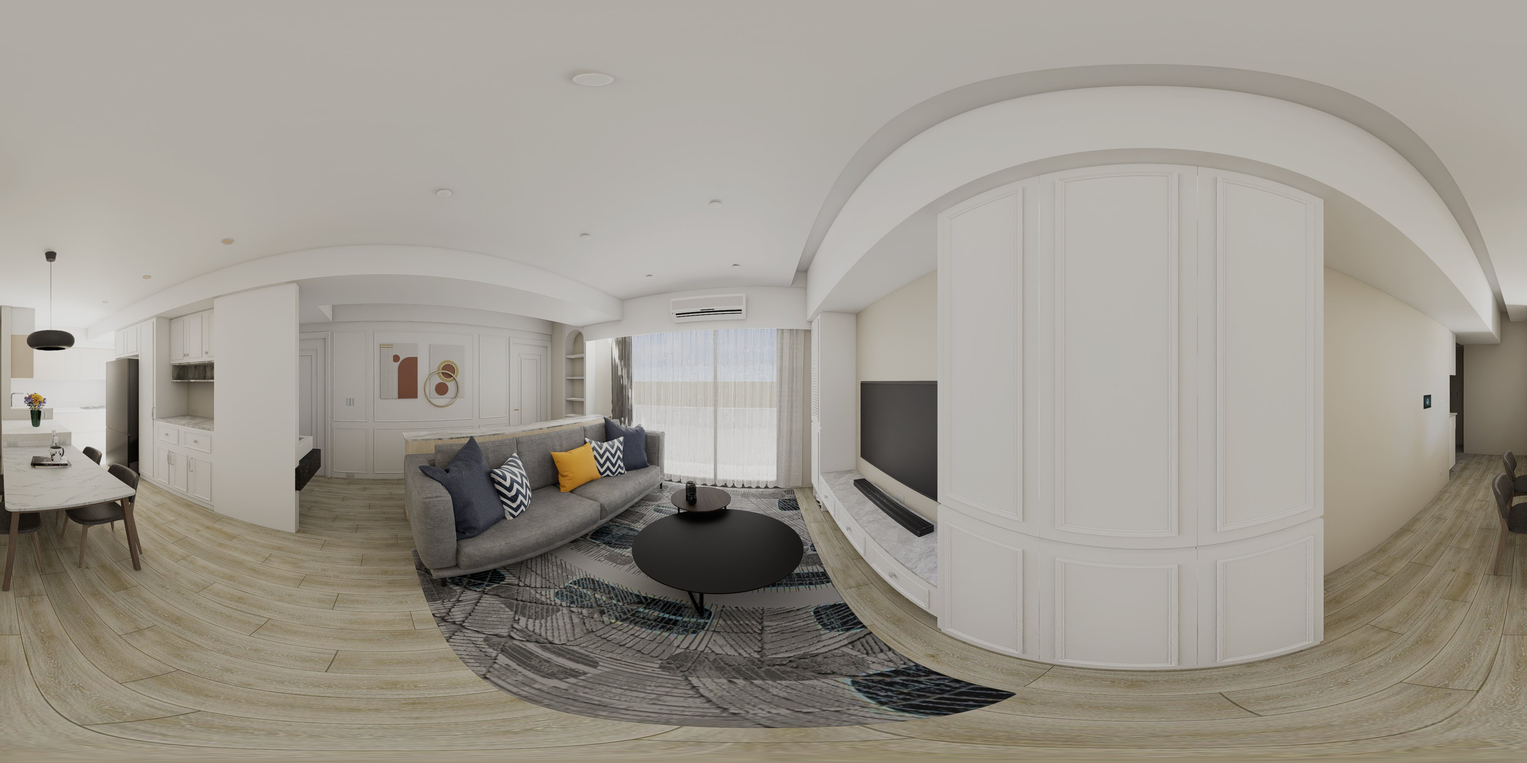
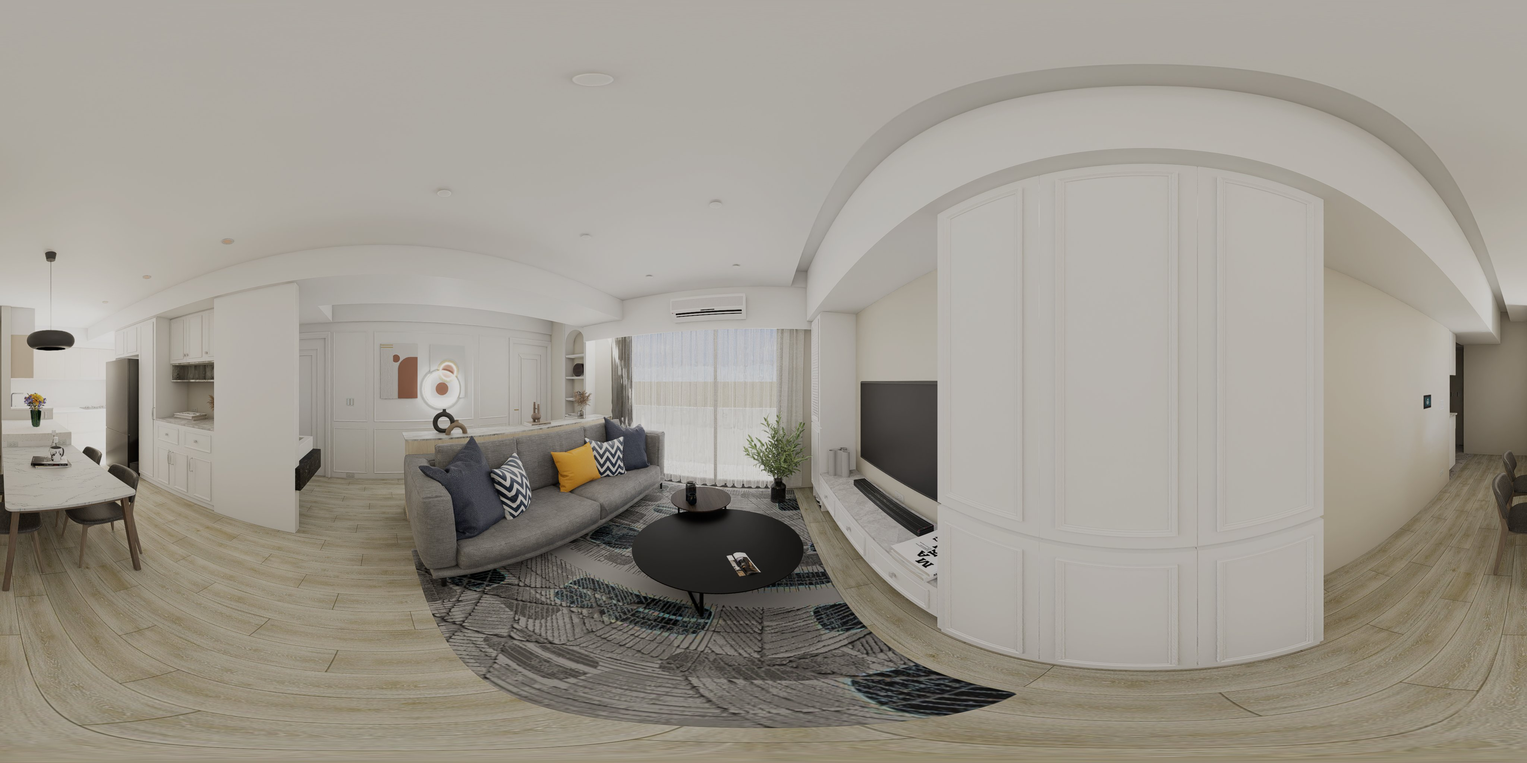
女王萬歲：全屋樣品屋軟裝（6 站白天＋燈光）＋飾品開關
現代法式軟裝：主臥一對鏡像肌理畫＋床尾圓墩、次臥黑白幾何畫＋床邊几、
走道矮櫃與拱形壁龕、客廳電視櫃與茶几、咖啡吧、玄關凹槽。
有飾品／無飾品白天都在新 D5 專案出圖並用同一組增益對齊舊版亮度。

diff --git a/queen-wansui/index.html b/queen-wansui/index.html
@@ -104,7 +104,7 @@ body { background: var(--bg); color: var(--ink); font-family: var(--f-ui); font-
   <div class="eyebrow">台中南區</div>
   <h1 class="case">女王萬歲</h1>
   <div class="now">目前位置：<b id="now">—</b></div>
-  <style>.mode.multi button { padding: 0 14px; white-space: nowrap; }</style><div class="mode multi" role="group" aria-label="裝修前後與光線"><button type="button" id="mBefore" aria-pressed="false">裝修前</button><button type="button" id="mDay" aria-pressed="true">白天</button><button type="button" id="mNight" aria-pressed="false">燈光</button></div>
+  <style>.mode.multi button { padding: 0 14px; white-space: nowrap; }</style><div class="mode multi" role="group" aria-label="裝修前後與光線"><button type="button" id="mBefore" aria-pressed="false">裝修前</button><button type="button" id="mDay" aria-pressed="true">白天</button><button type="button" id="mNight" aria-pressed="false">燈光</button></div><style>.mode[hidden] { display: none; } #decorRow button { white-space: nowrap; padding: 0 14px; }</style><div class="mode" id="decorRow" role="group" aria-label="飾品"><button type="button" id="dOn" aria-pressed="true">飾品 開</button><button type="button" id="dOff" aria-pressed="false">飾品 關</button></div>
 </header>
 
 <nav class="rooms" id="rooms" aria-label="房間"></nav>
@@ -121,7 +121,7 @@ body { background: var(--bg); color: var(--ink); font-family: var(--f-ui); font-
 <script src="https://cdnjs.cloudflare.com/ajax/libs/pannellum/2.5.6/pannellum.js"></script>
 <script>
 const ROOMS = [{"id": "VR1", "name": "玄關", "x": 86.82, "y": 84.68}, {"id": "VR2", "name": "餐廚", "x": 60.17, "y": 69.36}, {"id": "VR3", "name": "客廳", "x": 69.31, "y": 45.96}, {"id": "VR6", "name": "走道", "x": 45.7, "y": 42.98}, {"id": "VR4", "name": "主臥", "x": 35.03, "y": 37.02}, {"id": "VR5", "name": "次臥", "x": 31.23, "y": 68.51}];
-const SCENES = {"VR1": {"title": "玄關", "panorama": "pano/VR1.jpg?v=d5b", "yaw": -20, "pitch": -5, "hfov": 105, "northOffset": 0, "hotSpots": [{"pitch": -23.7, "yaw": -64.0, "type": "scene", "sceneId": "VR2", "targetYaw": "sameAzimuth", "cssClass": "gis-hot", "createTooltipFunc": "HOT", "createTooltipArgs": "餐廚"}]}, "VR2": {"title": "餐廚", "panorama": "pano/VR2.jpg?v=d5b", "yaw": 10, "pitch": -5, "hfov": 105, "northOffset": 0, "hotSpots": [{"pitch": 0.0, "yaw": 119.8, "type": "scene", "sceneId": "VR1", "targetYaw": "sameAzimuth", "cssClass": "gis-hot", "createTooltipFunc": "HOT", "createTooltipArgs": "玄關"}, {"pitch": -14.4, "yaw": 8.4, "type": "scene", "sceneId": "VR3", "targetYaw": "sameAzimuth", "cssClass": "gis-hot", "createTooltipFunc": "HOT", "createTooltipArgs": "客廳"}]}, "VR3": {"title": "客廳", "panorama": "pano/VR3.jpg?v=d5b", "yaw": 20, "pitch": -5, "hfov": 105, "northOffset": 0, "hotSpots": [{"pitch": -15.4, "yaw": -151.9, "type": "scene", "sceneId": "VR2", "targetYaw": "sameAzimuth", "cssClass": "gis-hot", "createTooltipFunc": "HOT", "createTooltipArgs": "餐廚"}, {"pitch": -12.1, "yaw": -93.1, "type": "scene", "sceneId": "VR6", "targetYaw": "sameAzimuth", "cssClass": "gis-hot", "createTooltipFunc": "HOT", "createTooltipArgs": "走道"}]}, "VR6": {"title": "走道", "panorama": "pano/VR6.jpg?v=m1b", "yaw": -15, "pitch": -5, "hfov": 105, "northOffset": 0, "hotSpots": [{"pitch": -16.7, "yaw": 99.9, "type": "scene", "sceneId": "VR3", "targetYaw": "sameAzimuth", "cssClass": "gis-hot", "createTooltipFunc": "HOT", "createTooltipArgs": "客廳"}, {"pitch": -12.7, "yaw": -13.0, "type": "scene", "sceneId": "VR4", "targetYaw": "sameAzimuth", "cssClass": "gis-hot", "createTooltipFunc": "HOT", "createTooltipArgs": "主臥"}, {"pitch": -17.1, "yaw": -162.1, "type": "scene", "sceneId": "VR5", "targetYaw": "sameAzimuth", "cssClass": "gis-hot", "createTooltipFunc": "HOT", "createTooltipArgs": "次臥"}]}, "VR4": {"title": "主臥", "panorama": "pano/VR4.jpg?v=d5b", "yaw": -110, "pitch": -5, "hfov": 105, "northOffset": 0, "hotSpots": [{"pitch": -22.4, "yaw": 15.9, "type": "scene", "sceneId": "VR6", "targetYaw": "sameAzimuth", "cssClass": "gis-hot", "createTooltipFunc": "HOT", "createTooltipArgs": "走道"}]}, "VR5": {"title": "次臥", "panorama": "pano/VR5.jpg?v=d5b", "yaw": -100, "pitch": -5, "hfov": 105, "northOffset": 0, "hotSpots": [{"pitch": -21.0, "yaw": 26.6, "type": "scene", "sceneId": "VR6", "targetYaw": "sameAzimuth", "cssClass": "gis-hot", "createTooltipFunc": "HOT", "createTooltipArgs": "走道"}]}, "VR1@n": {"title": "玄關", "panorama": "pano_night/VR1.jpg?v=n1", "yaw": -20, "pitch": -5, "hfov": 105, "northOffset": 0, "hotSpots": [{"pitch": -23.7, "yaw": -64.0, "type": "scene", "sceneId": "VR2@n", "targetYaw": "sameAzimuth", "cssClass": "gis-hot", "createTooltipFunc": "HOT", "createTooltipArgs": "餐廚"}]}, "VR2@n": {"title": "餐廚", "panorama": "pano_night/VR2.jpg?v=n1", "yaw": 10, "pitch": -5, "hfov": 105, "northOffset": 0, "hotSpots": [{"pitch": 0.0, "yaw": 119.8, "type": "scene", "sceneId": "VR1@n", "targetYaw": "sameAzimuth", "cssClass": "gis-hot", "createTooltipFunc": "HOT", "createTooltipArgs": "玄關"}, {"pitch": -14.4, "yaw": 8.4, "type": "scene", "sceneId": "VR3@n", "targetYaw": "sameAzimuth", "cssClass": "gis-hot", "createTooltipFunc": "HOT", "createTooltipArgs": "客廳"}]}, "VR3@n": {"title": "客廳", "panorama": "pano_night/VR3.jpg?v=n1", "yaw": 20, "pitch": -5, "hfov": 105, "northOffset": 0, "hotSpots": [{"pitch": -15.4, "yaw": -151.9, "type": "scene", "sceneId": "VR2@n", "targetYaw": "sameAzimuth", "cssClass": "gis-hot", "createTooltipFunc": "HOT", "createTooltipArgs": "餐廚"}, {"pitch": -12.1, "yaw": -93.1, "type": "scene", "sceneId": "VR6@n", "targetYaw": "sameAzimuth", "cssClass": "gis-hot", "createTooltipFunc": "HOT", "createTooltipArgs": "走道"}]}, "VR6@n": {"title": "走道", "panorama": "pano_night/VR6.jpg?v=m1", "yaw": -15, "pitch": -5, "hfov": 105, "northOffset": 0, "hotSpots": [{"pitch": -16.7, "yaw": 99.9, "type": "scene", "sceneId": "VR3@n", "targetYaw": "sameAzimuth", "cssClass": "gis-hot", "createTooltipFunc": "HOT", "createTooltipArgs": "客廳"}, {"pitch": -12.7, "yaw": -13.0, "type": "scene", "sceneId": "VR4@n", "targetYaw": "sameAzimuth", "cssClass": "gis-hot", "createTooltipFunc": "HOT", "createTooltipArgs": "主臥"}, {"pitch": -17.1, "yaw": -162.1, "type": "scene", "sceneId": "VR5@n", "targetYaw": "sameAzimuth", "cssClass": "gis-hot", "createTooltipFunc": "HOT", "createTooltipArgs": "次臥"}]}, "VR4@n": {"title": "主臥", "panorama": "pano_night/VR4.jpg?v=n1", "yaw": -110, "pitch": -5, "hfov": 105, "northOffset": 0, "hotSpots": [{"pitch": -22.4, "yaw": 15.9, "type": "scene", "sceneId": "VR6@n", "targetYaw": "sameAzimuth", "cssClass": "gis-hot", "createTooltipFunc": "HOT", "createTooltipArgs": "走道"}]}, "VR5@n": {"title": "次臥", "panorama": "pano_night/VR5.jpg?v=n1", "yaw": -100, "pitch": -5, "hfov": 105, "northOffset": 0, "hotSpots": [{"pitch": -21.0, "yaw": 26.6, "type": "scene", "sceneId": "VR6@n", "targetYaw": "sameAzimuth", "cssClass": "gis-hot", "createTooltipFunc": "HOT", "createTooltipArgs": "走道"}]}, "VR1@b": {"title": "玄關", "panorama": "pano_before/VR1.jpg?v=2", "yaw": -20, "pitch": -5, "hfov": 105, "northOffset": 0, "hotSpots": [{"pitch": -23.7, "yaw": -64.0, "type": "scene", "sceneId": "VR2@b", "targetYaw": "sameAzimuth", "cssClass": "gis-hot", "createTooltipFunc": "HOT", "createTooltipArgs": "餐廚"}]}, "VR2@b": {"title": "餐廚", "panorama": "pano_before/VR2.jpg?v=2", "yaw": 10, "pitch": -5, "hfov": 105, "northOffset": 0, "hotSpots": [{"pitch": 0.0, "yaw": 119.8, "type": "scene", "sceneId": "VR1@b", "targetYaw": "sameAzimuth", "cssClass": "gis-hot", "createTooltipFunc": "HOT", "createTooltipArgs": "玄關"}, {"pitch": -14.4, "yaw": 8.4, "type": "scene", "sceneId": "VR3@b", "targetYaw": "sameAzimuth", "cssClass": "gis-hot", "createTooltipFunc": "HOT", "createTooltipArgs": "客廳"}]}, "VR3@b": {"title": "客廳", "panorama": "pano_before/VR3.jpg?v=2", "yaw": 20, "pitch": -5, "hfov": 105, "northOffset": 0, "hotSpots": [{"pitch": -15.4, "yaw": -151.9, "type": "scene", "sceneId": "VR2@b", "targetYaw": "sameAzimuth", "cssClass": "gis-hot", "createTooltipFunc": "HOT", "createTooltipArgs": "餐廚"}, {"pitch": -12.1, "yaw": -93.1, "type": "scene", "sceneId": "VR6@b", "targetYaw": "sameAzimuth", "cssClass": "gis-hot", "createTooltipFunc": "HOT", "createTooltipArgs": "走道"}]}, "VR6@b": {"title": "走道", "panorama": "pano_before/VR6.jpg?v=2", "yaw": -15, "pitch": -5, "hfov": 105, "northOffset": 0, "hotSpots": [{"pitch": -16.7, "yaw": 99.9, "type": "scene", "sceneId": "VR3@b", "targetYaw": "sameAzimuth", "cssClass": "gis-hot", "createTooltipFunc": "HOT", "createTooltipArgs": "客廳"}, {"pitch": -12.7, "yaw": -13.0, "type": "scene", "sceneId": "VR4@b", "targetYaw": "sameAzimuth", "cssClass": "gis-hot", "createTooltipFunc": "HOT", "createTooltipArgs": "主臥"}, {"pitch": -17.1, "yaw": -162.1, "type": "scene", "sceneId": "VR5@b", "targetYaw": "sameAzimuth", "cssClass": "gis-hot", "createTooltipFunc": "HOT", "createTooltipArgs": "次臥"}]}, "VR4@b": {"title": "主臥", "panorama": "pano_before/VR4.jpg?v=2", "yaw": -110, "pitch": -5, "hfov": 105, "northOffset": 0, "hotSpots": [{"pitch": -22.4, "yaw": 15.9, "type": "scene", "sceneId": "VR6@b", "targetYaw": "sameAzimuth", "cssClass": "gis-hot", "createTooltipFunc": "HOT", "createTooltipArgs": "走道"}]}, "VR5@b": {"title": "次臥", "panorama": "pano_before/VR5.jpg?v=2", "yaw": -100, "pitch": -5, "hfov": 105, "northOffset": 0, "hotSpots": [{"pitch": -21.0, "yaw": 26.6, "type": "scene", "sceneId": "VR6@b", "targetYaw": "sameAzimuth", "cssClass": "gis-hot", "createTooltipFunc": "HOT", "createTooltipArgs": "走道"}]}};
+const SCENES = {"VR1": {"title": "玄關", "panorama": "pano/VR1.jpg?v=s1", "yaw": -20, "pitch": -5, "hfov": 105, "northOffset": 0, "hotSpots": [{"pitch": -23.7, "yaw": -64.0, "type": "scene", "sceneId": "VR2", "targetYaw": "sameAzimuth", "cssClass": "gis-hot", "createTooltipFunc": "HOT", "createTooltipArgs": "餐廚"}]}, "VR2": {"title": "餐廚", "panorama": "pano/VR2.jpg?v=s1", "yaw": 10, "pitch": -5, "hfov": 105, "northOffset": 0, "hotSpots": [{"pitch": 0.0, "yaw": 119.8, "type": "scene", "sceneId": "VR1", "targetYaw": "sameAzimuth", "cssClass": "gis-hot", "createTooltipFunc": "HOT", "createTooltipArgs": "玄關"}, {"pitch": -14.4, "yaw": 8.4, "type": "scene", "sceneId": "VR3", "targetYaw": "sameAzimuth", "cssClass": "gis-hot", "createTooltipFunc": "HOT", "createTooltipArgs": "客廳"}]}, "VR3": {"title": "客廳", "panorama": "pano/VR3.jpg?v=s1", "yaw": 20, "pitch": -5, "hfov": 105, "northOffset": 0, "hotSpots": [{"pitch": -15.4, "yaw": -151.9, "type": "scene", "sceneId": "VR2", "targetYaw": "sameAzimuth", "cssClass": "gis-hot", "createTooltipFunc": "HOT", "createTooltipArgs": "餐廚"}, {"pitch": -12.1, "yaw": -93.1, "type": "scene", "sceneId": "VR6", "targetYaw": "sameAzimuth", "cssClass": "gis-hot", "createTooltipFunc": "HOT", "createTooltipArgs": "走道"}]}, "VR6": {"title": "走道", "panorama": "pano/VR6.jpg?v=s1", "yaw": -15, "pitch": -5, "hfov": 105, "northOffset": 0, "hotSpots": [{"pitch": -16.7, "yaw": 99.9, "type": "scene", "sceneId": "VR3", "targetYaw": "sameAzimuth", "cssClass": "gis-hot", "createTooltipFunc": "HOT", "createTooltipArgs": "客廳"}, {"pitch": -12.7, "yaw": -13.0, "type": "scene", "sceneId": "VR4", "targetYaw": "sameAzimuth", "cssClass": "gis-hot", "createTooltipFunc": "HOT", "createTooltipArgs": "主臥"}, {"pitch": -17.1, "yaw": -162.1, "type": "scene", "sceneId": "VR5", "targetYaw": "sameAzimuth", "cssClass": "gis-hot", "createTooltipFunc": "HOT", "createTooltipArgs": "次臥"}]}, "VR4": {"title": "主臥", "panorama": "pano/VR4.jpg?v=s1", "yaw": -110, "pitch": -5, "hfov": 105, "northOffset": 0, "hotSpots": [{"pitch": -22.4, "yaw": 15.9, "type": "scene", "sceneId": "VR6", "targetYaw": "sameAzimuth", "cssClass": "gis-hot", "createTooltipFunc": "HOT", "createTooltipArgs": "走道"}]}, "VR5": {"title": "次臥", "panorama": "pano/VR5.jpg?v=s1", "yaw": -100, "pitch": -5, "hfov": 105, "northOffset": 0, "hotSpots": [{"pitch": -21.0, "yaw": 26.6, "type": "scene", "sceneId": "VR6", "targetYaw": "sameAzimuth", "cssClass": "gis-hot", "createTooltipFunc": "HOT", "createTooltipArgs": "走道"}]}, "VR1@n": {"title": "玄關", "panorama": "pano_night/VR1.jpg?v=s1", "yaw": -20, "pitch": -5, "hfov": 105, "northOffset": 0, "hotSpots": [{"pitch": -23.7, "yaw": -64.0, "type": "scene", "sceneId": "VR2@n", "targetYaw": "sameAzimuth", "cssClass": "gis-hot", "createTooltipFunc": "HOT", "createTooltipArgs": "餐廚"}]}, "VR2@n": {"title": "餐廚", "panorama": "pano_night/VR2.jpg?v=s1", "yaw": 10, "pitch": -5, "hfov": 105, "northOffset": 0, "hotSpots": [{"pitch": 0.0, "yaw": 119.8, "type": "scene", "sceneId": "VR1@n", "targetYaw": "sameAzimuth", "cssClass": "gis-hot", "createTooltipFunc": "HOT", "createTooltipArgs": "玄關"}, {"pitch": -14.4, "yaw": 8.4, "type": "scene", "sceneId": "VR3@n", "targetYaw": "sameAzimuth", "cssClass": "gis-hot", "createTooltipFunc": "HOT", "createTooltipArgs": "客廳"}]}, "VR3@n": {"title": "客廳", "panorama": "pano_night/VR3.jpg?v=s1", "yaw": 20, "pitch": -5, "hfov": 105, "northOffset": 0, "hotSpots": [{"pitch": -15.4, "yaw": -151.9, "type": "scene", "sceneId": "VR2@n", "targetYaw": "sameAzimuth", "cssClass": "gis-hot", "createTooltipFunc": "HOT", "createTooltipArgs": "餐廚"}, {"pitch": -12.1, "yaw": -93.1, "type": "scene", "sceneId": "VR6@n", "targetYaw": "sameAzimuth", "cssClass": "gis-hot", "createTooltipFunc": "HOT", "createTooltipArgs": "走道"}]}, "VR6@n": {"title": "走道", "panorama": "pano_night/VR6.jpg?v=s1", "yaw": -15, "pitch": -5, "hfov": 105, "northOffset": 0, "hotSpots": [{"pitch": -16.7, "yaw": 99.9, "type": "scene", "sceneId": "VR3@n", "targetYaw": "sameAzimuth", "cssClass": "gis-hot", "createTooltipFunc": "HOT", "createTooltipArgs": "客廳"}, {"pitch": -12.7, "yaw": -13.0, "type": "scene", "sceneId": "VR4@n", "targetYaw": "sameAzimuth", "cssClass": "gis-hot", "createTooltipFunc": "HOT", "createTooltipArgs": "主臥"}, {"pitch": -17.1, "yaw": -162.1, "type": "scene", "sceneId": "VR5@n", "targetYaw": "sameAzimuth", "cssClass": "gis-hot", "createTooltipFunc": "HOT", "createTooltipArgs": "次臥"}]}, "VR4@n": {"title": "主臥", "panorama": "pano_night/VR4.jpg?v=s1", "yaw": -110, "pitch": -5, "hfov": 105, "northOffset": 0, "hotSpots": [{"pitch": -22.4, "yaw": 15.9, "type": "scene", "sceneId": "VR6@n", "targetYaw": "sameAzimuth", "cssClass": "gis-hot", "createTooltipFunc": "HOT", "createTooltipArgs": "走道"}]}, "VR5@n": {"title": "次臥", "panorama": "pano_night/VR5.jpg?v=s1", "yaw": -100, "pitch": -5, "hfov": 105, "northOffset": 0, "hotSpots": [{"pitch": -21.0, "yaw": 26.6, "type": "scene", "sceneId": "VR6@n", "targetYaw": "sameAzimuth", "cssClass": "gis-hot", "createTooltipFunc": "HOT", "createTooltipArgs": "走道"}]}, "VR1@b": {"title": "玄關", "panorama": "pano_before/VR1.jpg?v=2", "yaw": -20, "pitch": -5, "hfov": 105, "northOffset": 0, "hotSpots": [{"pitch": -23.7, "yaw": -64.0, "type": "scene", "sceneId": "VR2@b", "targetYaw": "sameAzimuth", "cssClass": "gis-hot", "createTooltipFunc": "HOT", "createTooltipArgs": "餐廚"}]}, "VR2@b": {"title": "餐廚", "panorama": "pano_before/VR2.jpg?v=2", "yaw": 10, "pitch": -5, "hfov": 105, "northOffset": 0, "hotSpots": [{"pitch": 0.0, "yaw": 119.8, "type": "scene", "sceneId": "VR1@b", "targetYaw": "sameAzimuth", "cssClass": "gis-hot", "createTooltipFunc": "HOT", "createTooltipArgs": "玄關"}, {"pitch": -14.4, "yaw": 8.4, "type": "scene", "sceneId": "VR3@b", "targetYaw": "sameAzimuth", "cssClass": "gis-hot", "createTooltipFunc": "HOT", "createTooltipArgs": "客廳"}]}, "VR3@b": {"title": "客廳", "panorama": "pano_before/VR3.jpg?v=2", "yaw": 20, "pitch": -5, "hfov": 105, "northOffset": 0, "hotSpots": [{"pitch": -15.4, "yaw": -151.9, "type": "scene", "sceneId": "VR2@b", "targetYaw": "sameAzimuth", "cssClass": "gis-hot", "createTooltipFunc": "HOT", "createTooltipArgs": "餐廚"}, {"pitch": -12.1, "yaw": -93.1, "type": "scene", "sceneId": "VR6@b", "targetYaw": "sameAzimuth", "cssClass": "gis-hot", "createTooltipFunc": "HOT", "createTooltipArgs": "走道"}]}, "VR6@b": {"title": "走道", "panorama": "pano_before/VR6.jpg?v=2", "yaw": -15, "pitch": -5, "hfov": 105, "northOffset": 0, "hotSpots": [{"pitch": -16.7, "yaw": 99.9, "type": "scene", "sceneId": "VR3@b", "targetYaw": "sameAzimuth", "cssClass": "gis-hot", "createTooltipFunc": "HOT", "createTooltipArgs": "客廳"}, {"pitch": -12.7, "yaw": -13.0, "type": "scene", "sceneId": "VR4@b", "targetYaw": "sameAzimuth", "cssClass": "gis-hot", "createTooltipFunc": "HOT", "createTooltipArgs": "主臥"}, {"pitch": -17.1, "yaw": -162.1, "type": "scene", "sceneId": "VR5@b", "targetYaw": "sameAzimuth", "cssClass": "gis-hot", "createTooltipFunc": "HOT", "createTooltipArgs": "次臥"}]}, "VR4@b": {"title": "主臥", "panorama": "pano_before/VR4.jpg?v=2", "yaw": -110, "pitch": -5, "hfov": 105, "northOffset": 0, "hotSpots": [{"pitch": -22.4, "yaw": 15.9, "type": "scene", "sceneId": "VR6@b", "targetYaw": "sameAzimuth", "cssClass": "gis-hot", "createTooltipFunc": "HOT", "createTooltipArgs": "走道"}]}, "VR5@b": {"title": "次臥", "panorama": "pano_before/VR5.jpg?v=2", "yaw": -100, "pitch": -5, "hfov": 105, "northOffset": 0, "hotSpots": [{"pitch": -21.0, "yaw": 26.6, "type": "scene", "sceneId": "VR6@b", "targetYaw": "sameAzimuth", "cssClass": "gis-hot", "createTooltipFunc": "HOT", "createTooltipArgs": "走道"}]}, "VR1~p": {"title": "玄關", "panorama": "pano_plain/VR1.jpg?v=p1", "yaw": -20, "pitch": -5, "hfov": 105, "northOffset": 0, "hotSpots": [{"pitch": -23.7, "yaw": -64.0, "type": "scene", "sceneId": "VR2~p", "targetYaw": "sameAzimuth", "cssClass": "gis-hot", "createTooltipFunc": "HOT", "createTooltipArgs": "餐廚"}]}, "VR2~p": {"title": "餐廚", "panorama": "pano_plain/VR2.jpg?v=p1", "yaw": 10, "pitch": -5, "hfov": 105, "northOffset": 0, "hotSpots": [{"pitch": 0.0, "yaw": 119.8, "type": "scene", "sceneId": "VR1~p", "targetYaw": "sameAzimuth", "cssClass": "gis-hot", "createTooltipFunc": "HOT", "createTooltipArgs": "玄關"}, {"pitch": -14.4, "yaw": 8.4, "type": "scene", "sceneId": "VR3~p", "targetYaw": "sameAzimuth", "cssClass": "gis-hot", "createTooltipFunc": "HOT", "createTooltipArgs": "客廳"}]}, "VR3~p": {"title": "客廳", "panorama": "pano_plain/VR3.jpg?v=p1", "yaw": 20, "pitch": -5, "hfov": 105, "northOffset": 0, "hotSpots": [{"pitch": -15.4, "yaw": -151.9, "type": "scene", "sceneId": "VR2~p", "targetYaw": "sameAzimuth", "cssClass": "gis-hot", "createTooltipFunc": "HOT", "createTooltipArgs": "餐廚"}, {"pitch": -12.1, "yaw": -93.1, "type": "scene", "sceneId": "VR6~p", "targetYaw": "sameAzimuth", "cssClass": "gis-hot", "createTooltipFunc": "HOT", "createTooltipArgs": "走道"}]}, "VR6~p": {"title": "走道", "panorama": "pano_plain/VR6.jpg?v=p1", "yaw": -15, "pitch": -5, "hfov": 105, "northOffset": 0, "hotSpots": [{"pitch": -16.7, "yaw": 99.9, "type": "scene", "sceneId": "VR3~p", "targetYaw": "sameAzimuth", "cssClass": "gis-hot", "createTooltipFunc": "HOT", "createTooltipArgs": "客廳"}, {"pitch": -12.7, "yaw": -13.0, "type": "scene", "sceneId": "VR4~p", "targetYaw": "sameAzimuth", "cssClass": "gis-hot", "createTooltipFunc": "HOT", "createTooltipArgs": "主臥"}, {"pitch": -17.1, "yaw": -162.1, "type": "scene", "sceneId": "VR5~p", "targetYaw": "sameAzimuth", "cssClass": "gis-hot", "createTooltipFunc": "HOT", "createTooltipArgs": "次臥"}]}, "VR4~p": {"title": "主臥", "panorama": "pano_plain/VR4.jpg?v=p1", "yaw": -110, "pitch": -5, "hfov": 105, "northOffset": 0, "hotSpots": [{"pitch": -22.4, "yaw": 15.9, "type": "scene", "sceneId": "VR6~p", "targetYaw": "sameAzimuth", "cssClass": "gis-hot", "createTooltipFunc": "HOT", "createTooltipArgs": "走道"}]}, "VR5~p": {"title": "次臥", "panorama": "pano_plain/VR5.jpg?v=p1", "yaw": -100, "pitch": -5, "hfov": 105, "northOffset": 0, "hotSpots": [{"pitch": -21.0, "yaw": 26.6, "type": "scene", "sceneId": "VR6~p", "targetYaw": "sameAzimuth", "cssClass": "gis-hot", "createTooltipFunc": "HOT", "createTooltipArgs": "走道"}]}, "VR1@n~p": {"title": "玄關", "panorama": "pano_night_plain/VR1.jpg?v=p1", "yaw": -20, "pitch": -5, "hfov": 105, "northOffset": 0, "hotSpots": [{"pitch": -23.7, "yaw": -64.0, "type": "scene", "sceneId": "VR2@n~p", "targetYaw": "sameAzimuth", "cssClass": "gis-hot", "createTooltipFunc": "HOT", "createTooltipArgs": "餐廚"}]}, "VR2@n~p": {"title": "餐廚", "panorama": "pano_night_plain/VR2.jpg?v=p1", "yaw": 10, "pitch": -5, "hfov": 105, "northOffset": 0, "hotSpots": [{"pitch": 0.0, "yaw": 119.8, "type": "scene", "sceneId": "VR1@n~p", "targetYaw": "sameAzimuth", "cssClass": "gis-hot", "createTooltipFunc": "HOT", "createTooltipArgs": "玄關"}, {"pitch": -14.4, "yaw": 8.4, "type": "scene", "sceneId": "VR3@n~p", "targetYaw": "sameAzimuth", "cssClass": "gis-hot", "createTooltipFunc": "HOT", "createTooltipArgs": "客廳"}]}, "VR3@n~p": {"title": "客廳", "panorama": "pano_night_plain/VR3.jpg?v=p1", "yaw": 20, "pitch": -5, "hfov": 105, "northOffset": 0, "hotSpots": [{"pitch": -15.4, "yaw": -151.9, "type": "scene", "sceneId": "VR2@n~p", "targetYaw": "sameAzimuth", "cssClass": "gis-hot", "createTooltipFunc": "HOT", "createTooltipArgs": "餐廚"}, {"pitch": -12.1, "yaw": -93.1, "type": "scene", "sceneId": "VR6@n~p", "targetYaw": "sameAzimuth", "cssClass": "gis-hot", "createTooltipFunc": "HOT", "createTooltipArgs": "走道"}]}, "VR6@n~p": {"title": "走道", "panorama": "pano_night_plain/VR6.jpg?v=p1", "yaw": -15, "pitch": -5, "hfov": 105, "northOffset": 0, "hotSpots": [{"pitch": -16.7, "yaw": 99.9, "type": "scene", "sceneId": "VR3@n~p", "targetYaw": "sameAzimuth", "cssClass": "gis-hot", "createTooltipFunc": "HOT", "createTooltipArgs": "客廳"}, {"pitch": -12.7, "yaw": -13.0, "type": "scene", "sceneId": "VR4@n~p", "targetYaw": "sameAzimuth", "cssClass": "gis-hot", "createTooltipFunc": "HOT", "createTooltipArgs": "主臥"}, {"pitch": -17.1, "yaw": -162.1, "type": "scene", "sceneId": "VR5@n~p", "targetYaw": "sameAzimuth", "cssClass": "gis-hot", "createTooltipFunc": "HOT", "createTooltipArgs": "次臥"}]}, "VR4@n~p": {"title": "主臥", "panorama": "pano_night_plain/VR4.jpg?v=p1", "yaw": -110, "pitch": -5, "hfov": 105, "northOffset": 0, "hotSpots": [{"pitch": -22.4, "yaw": 15.9, "type": "scene", "sceneId": "VR6@n~p", "targetYaw": "sameAzimuth", "cssClass": "gis-hot", "createTooltipFunc": "HOT", "createTooltipArgs": "走道"}]}, "VR5@n~p": {"title": "次臥", "panorama": "pano_night_plain/VR5.jpg?v=p1", "yaw": -100, "pitch": -5, "hfov": 105, "northOffset": 0, "hotSpots": [{"pitch": -21.0, "yaw": 26.6, "type": "scene", "sceneId": "VR6@n~p", "targetYaw": "sameAzimuth", "cssClass": "gis-hot", "createTooltipFunc": "HOT", "createTooltipArgs": "走道"}]}};
 function HOT(div, name) {
   const p = document.createElement('span');
   p.className = 'pill';
@@ -131,10 +131,13 @@ function HOT(div, name) {
 for (const s of Object.values(SCENES)) for (const h of s.hotSpots) h.createTooltipFunc = HOT;
 
 const MODES = [{"suf": "@b", "hash": "#before", "btn": "mBefore"}, {"suf": "", "hash": "", "btn": "mDay"}, {"suf": "@n", "hash": "#night", "btn": "mNight"}];
-// 目前模式：'@b' 裝修前、'' 白天、'@n' 燈光；網址加 #before／#night 直接開那一版
-const sufOf = h => (MODES.find(m => m.hash && m.hash === h) || { suf: '' }).suf;
-let SUF = sufOf(location.hash);
-const base = id => String(id).replace(/@[nb]$/, '');
+const DECOR_ROOMS = ["VR1", "VR2", "VR3", "VR6", "VR4", "VR5"];
+// SUF＝模式（'@b' 裝修前、'' 白天、'@n' 燈光）＋飾品關掉時再加 '~p'；網址 #night、#nodecor、#night-nodecor
+const parseHash = h => { const mh = h.replace(/-?nodecor$/, ''); return { off: /nodecor$/.test(h), suf: (MODES.find(m => m.hash && m.hash === mh) || { suf: '' }).suf }; };
+let { off: DECOR_OFF, suf: MODE } = parseHash(location.hash);
+const sufNow = () => MODE + (DECOR_OFF && MODE !== '@b' ? '~p' : '');
+let SUF = sufNow();
+const base = id => String(id).replace(/(@[nb])?(~p)?$/, '');
 const viewer = pannellum.viewer('pano', {
   default: { firstScene: ROOMS[0].id + SUF, sceneFadeDuration: 700, autoLoad: true, showZoomCtrl: false, compass: false, minHfov: 50, maxHfov: 120 },
   scenes: SCENES
@@ -179,21 +182,30 @@ function markRoom(id) {
 viewer.on('scenechange', markRoom);
 viewer.on('load', () => markRoom(viewer.getScene()));
 
-// 裝修前／白天／燈光切換：停在同一個房間、同一個視角
+// 模式切換＋飾品開關：停在同一個房間、同一個視角；飾品那排只在有擺飾品的房間出現
 {
-  const paint = () => { for (const m of MODES) document.getElementById(m.btn).setAttribute('aria-pressed', String(m.suf === SUF)); };
-  function setMode(suf) {
-    SUF = suf;
+  const dOn = document.getElementById('dOn'), dOff = document.getElementById('dOff'), dRow = document.getElementById('decorRow');
+  const paint = () => {
+    for (const m of MODES) { const b = m.btn && document.getElementById(m.btn); if (b) b.setAttribute('aria-pressed', String(m.suf === MODE)); }
+    dOn.setAttribute('aria-pressed', String(!DECOR_OFF)); dOff.setAttribute('aria-pressed', String(DECOR_OFF));
+    dRow.hidden = MODE === '@b' || !DECOR_ROOMS.includes(base(viewer.getScene() || ROOMS[0].id));
+  };
+  function apply() {
+    SUF = sufNow();
     paint();
-    const m = MODES.find(x => x.suf === suf);
-    history.replaceState(null, '', m && m.hash ? m.hash : location.pathname + location.search);
+    const m = MODES.find(x => x.suf === MODE);
+    const h = [m && m.hash ? m.hash.slice(1) : '', DECOR_OFF ? 'nodecor' : ''].filter(Boolean).join('-');
+    history.replaceState(null, '', h ? '#' + h : location.pathname + location.search);
     const cur = viewer.getScene(); if (!cur) return;
     const t = base(cur) + SUF; if (t === cur) return;
     if (viewer.isLoaded()) viewer.loadScene(t, viewer.getPitch(), viewer.getYaw(), viewer.getHfov());
     else pending = t;
   }
-  for (const m of MODES) document.getElementById(m.btn).onclick = () => setMode(m.suf);
-  addEventListener('hashchange', () => setMode(sufOf(location.hash)));
+  for (const m of MODES) { const b = m.btn && document.getElementById(m.btn); if (b) b.onclick = () => { MODE = m.suf; apply(); }; }
+  dOn.onclick = () => { DECOR_OFF = false; apply(); };
+  dOff.onclick = () => { DECOR_OFF = true; apply(); };
+  addEventListener('hashchange', () => { ({ off: DECOR_OFF, suf: MODE } = parseHash(location.hash)); apply(); });
+  viewer.on('scenechange', paint);
   paint();
 }
 (function spin() { cone.style.transform = 'rotate(' + viewer.getYaw() + 'deg)'; requestAnimationFrame(spin); })();
